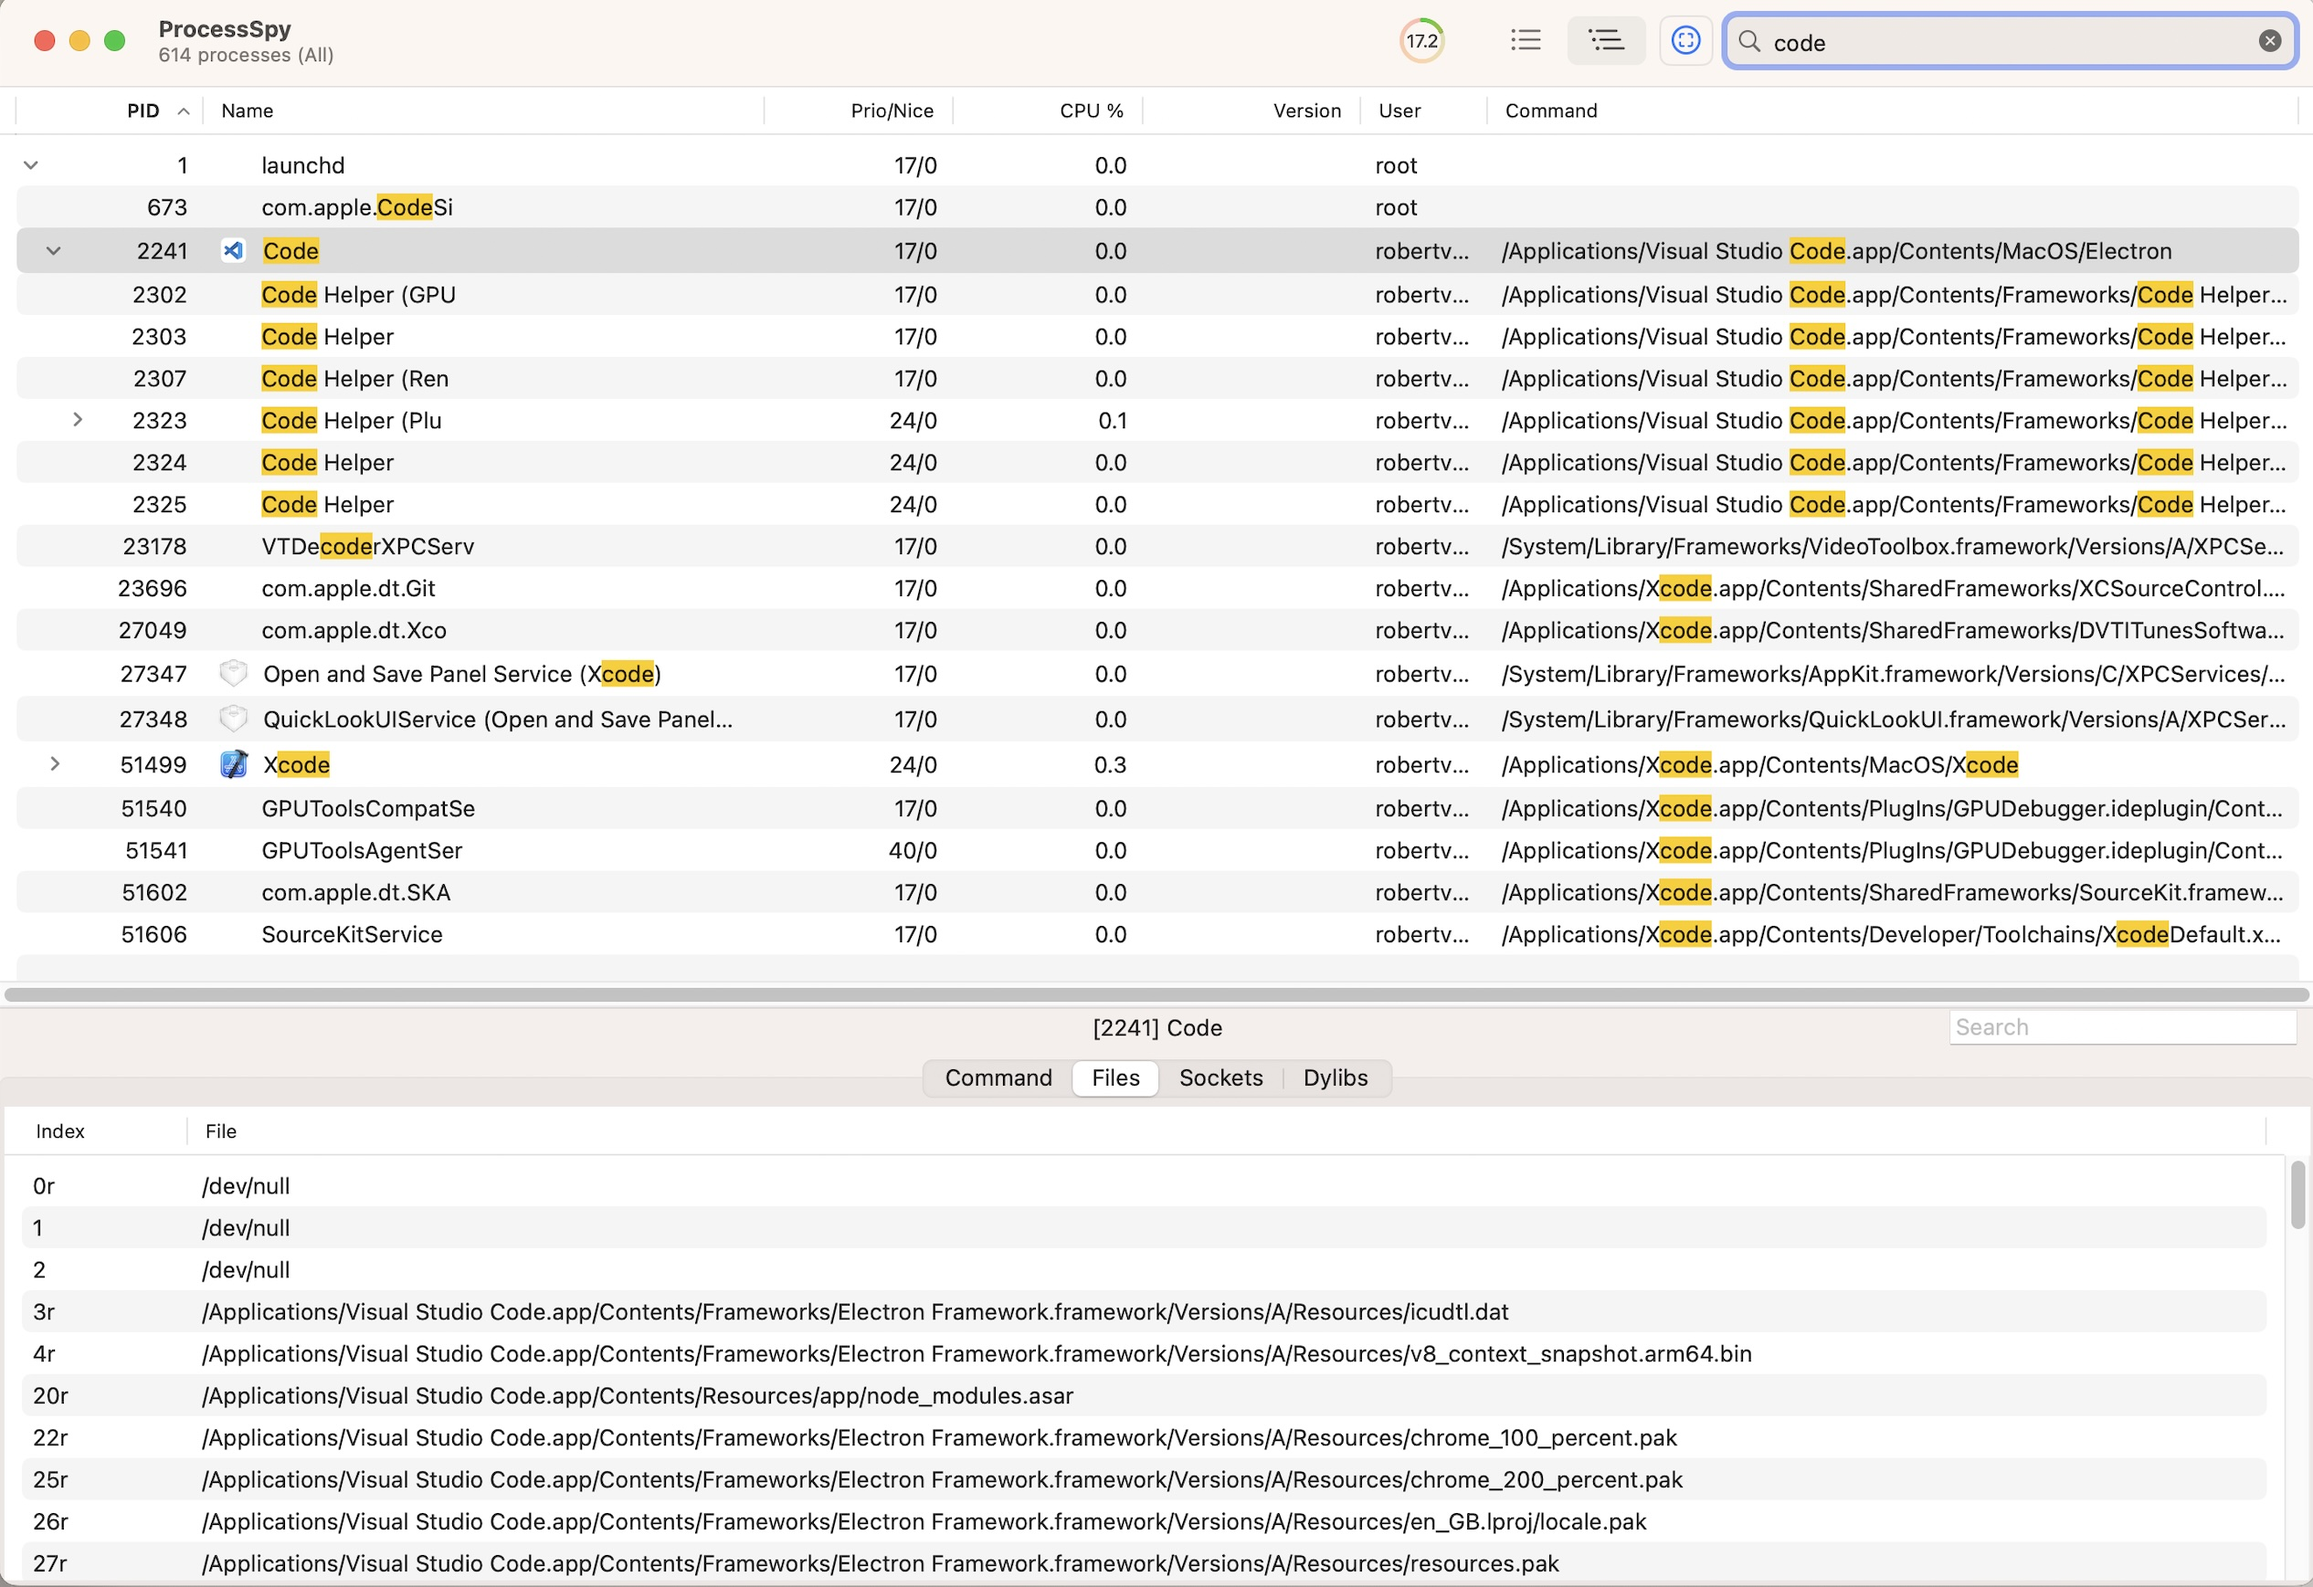
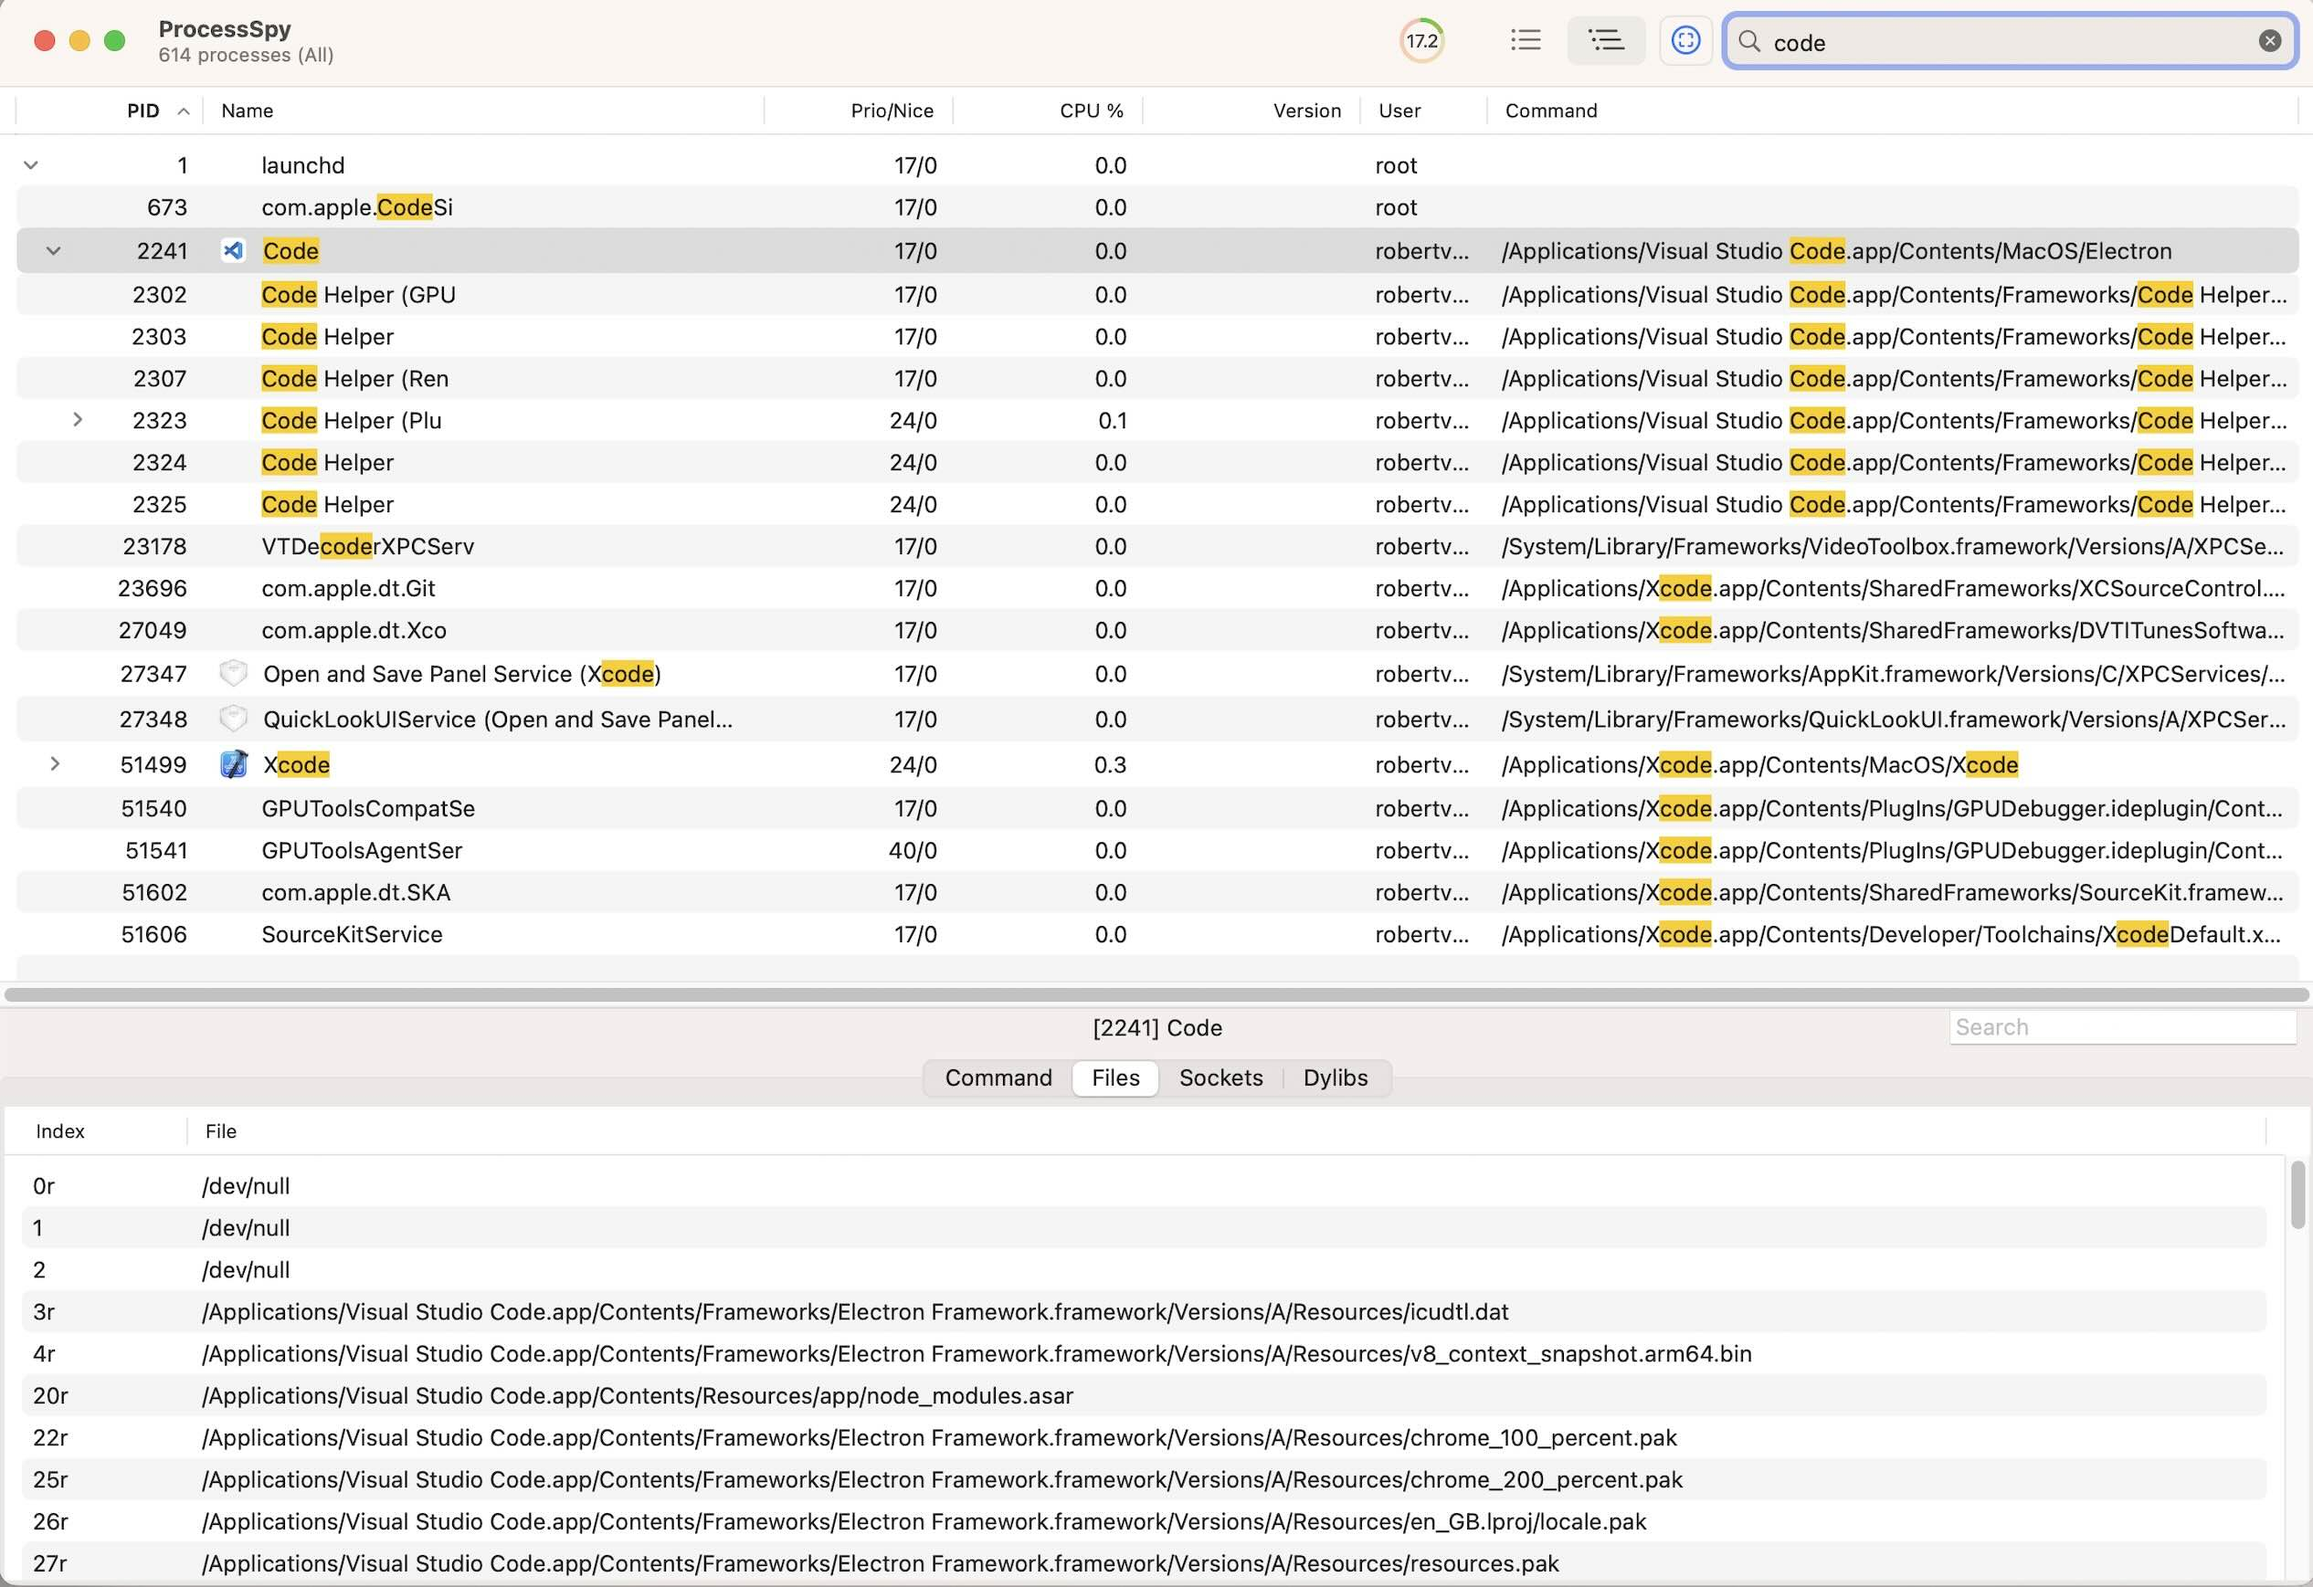
seo optimizations 4

diff --git a/src/App.vue b/src/App.vue
@@ -81,7 +81,7 @@
     <div class="text-center mt-20 mb-10 p-4">
       <h3 class="font-extrabold text-4xl">View open files and access them instantly</h3>
       <p class="text-2xl mb-10">Open files with your favourite tool</p>
-      <img alt="View open files and directly open them in the chosen tool" src="./assets/screenshot_4.png" class="rounded-2xl object-cover">
+      <img alt="View open files and directly open them in the chosen tool" src="./assets/screenshot_4.jpg" class="rounded-2xl object-cover">
     </div>
 
     <div class="text-center mt-20 mb-10 p-4">
